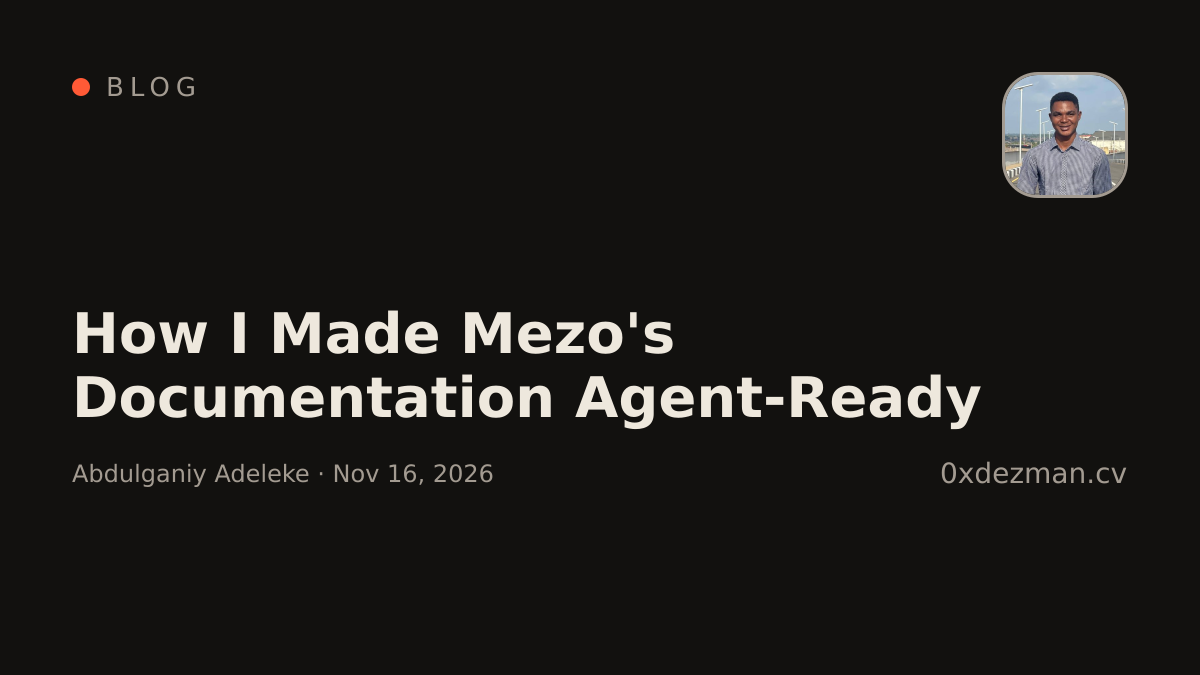
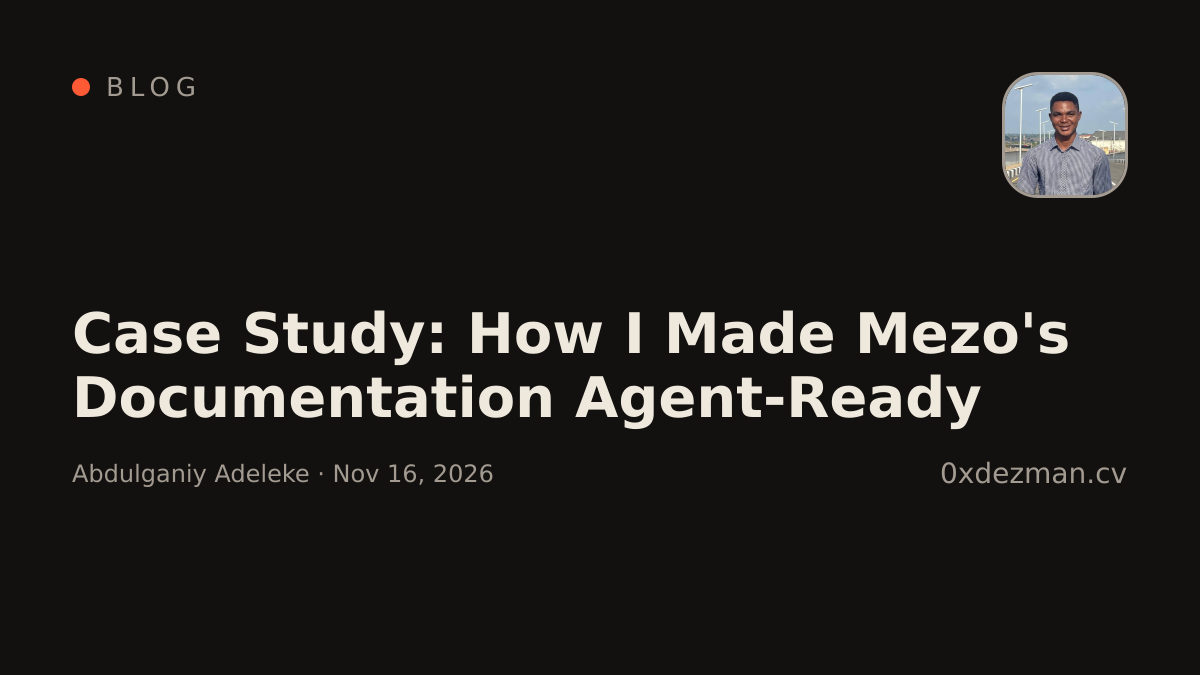
docs(blog): retitle Mezo case study and update OG

Changed region(s): [[0.0617, 0.4356, 0.8942, 0.56]]

diff --git a/app/blog/(articles)/how-i-made-mezo-documentation-agent-ready/page.tsx b/app/blog/(articles)/how-i-made-mezo-documentation-agent-ready/page.tsx
@@ -8,7 +8,7 @@ import { ShareButtons } from "@/components/ShareButtons";
 import { TableOfContents } from "@/components/TableOfContents";
 import { blogPosts } from "@/content/blog";
 
-const title = "How I Made Mezo's Documentation Agent-Ready";
+const title = "Case Study: How I Made Mezo's Documentation Agent-Ready";
 const description =
   "How I improved Mezo's documentation agent-readiness score from 41 to 100 with 8 PRs.";
 
@@ -599,7 +599,7 @@ export default function MezoDocumentationAgentReadyPost() {
             </div>
           </section>
 
-          <ShareButtons title="How I Made Mezo's Documentation Agent-Ready" path={currentHref} />
+          <ShareButtons title="Case Study: How I Made Mezo's Documentation Agent-Ready" path={currentHref} />
         </div>
 
         <aside className="hidden lg:col-start-3 lg:row-start-2 lg:block">

diff --git a/content/blog.ts b/content/blog.ts
@@ -8,7 +8,7 @@ export type BlogPost = {
 
 export const blogPosts: BlogPost[] = [
   {
-    title: "How I Made Mezo's Documentation Agent-Ready",
+    title: "Case Study: How I Made Mezo's Documentation Agent-Ready",
     href: "/blog/how-i-made-mezo-documentation-agent-ready/",
     date: "2026-11-16",
     description:

diff --git a/public/blog.md b/public/blog.md
@@ -2,12 +2,12 @@
 
 Writings about ideas that emerge from what I learn, build, observe, and experience across technology, money, and personal growth.
 
-## How I Made Mezo's Documentation Agent-Ready
+## Case Study: How I Made Mezo's Documentation Agent-Ready
 
 - Published: November 2026
 - Summary: How I improved Mezo's documentation agent-readiness score from 41 to 100 with 8 PRs.
 - Tags: documentation, ai agents, afdocs, mezo
-- Read: [How I Made Mezo's Documentation Agent-Ready](/blog/how-i-made-mezo-documentation-agent-ready/)
+- Read: [Case Study: How I Made Mezo's Documentation Agent-Ready](/blog/how-i-made-mezo-documentation-agent-ready/)
 - Full text: [how-i-made-mezo-documentation-agent-ready.md](/blog/how-i-made-mezo-documentation-agent-ready.md)
 
 ## TUI vs CLI: Is There Any Difference?

diff --git a/public/blog/how-i-made-mezo-documentation-agent-ready.md b/public/blog/how-i-made-mezo-documentation-agent-ready.md
@@ -1,4 +1,4 @@
-# How I Made Mezo's Documentation Agent-Ready
+# Case Study: How I Made Mezo's Documentation Agent-Ready
 
 by Abdulganiy Adeleke, published on Nov 16, 2026
 
